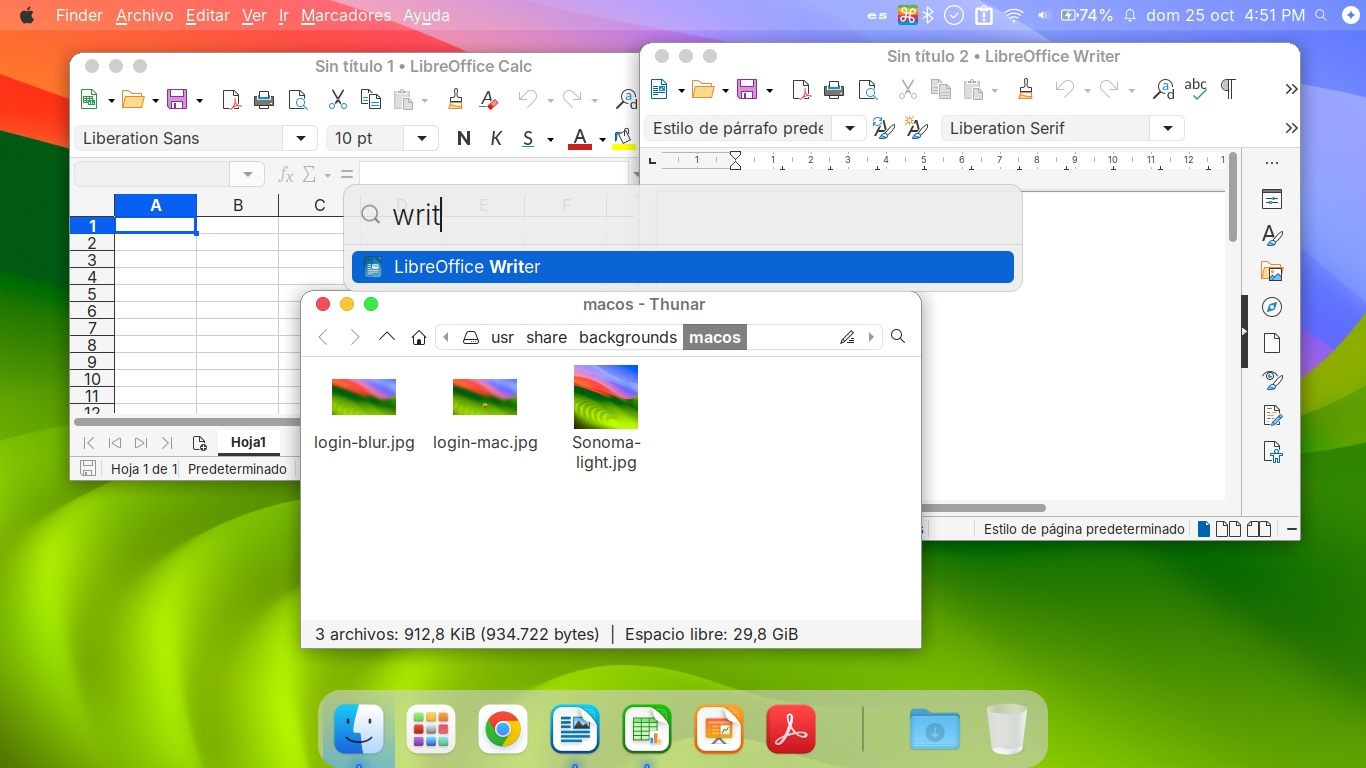
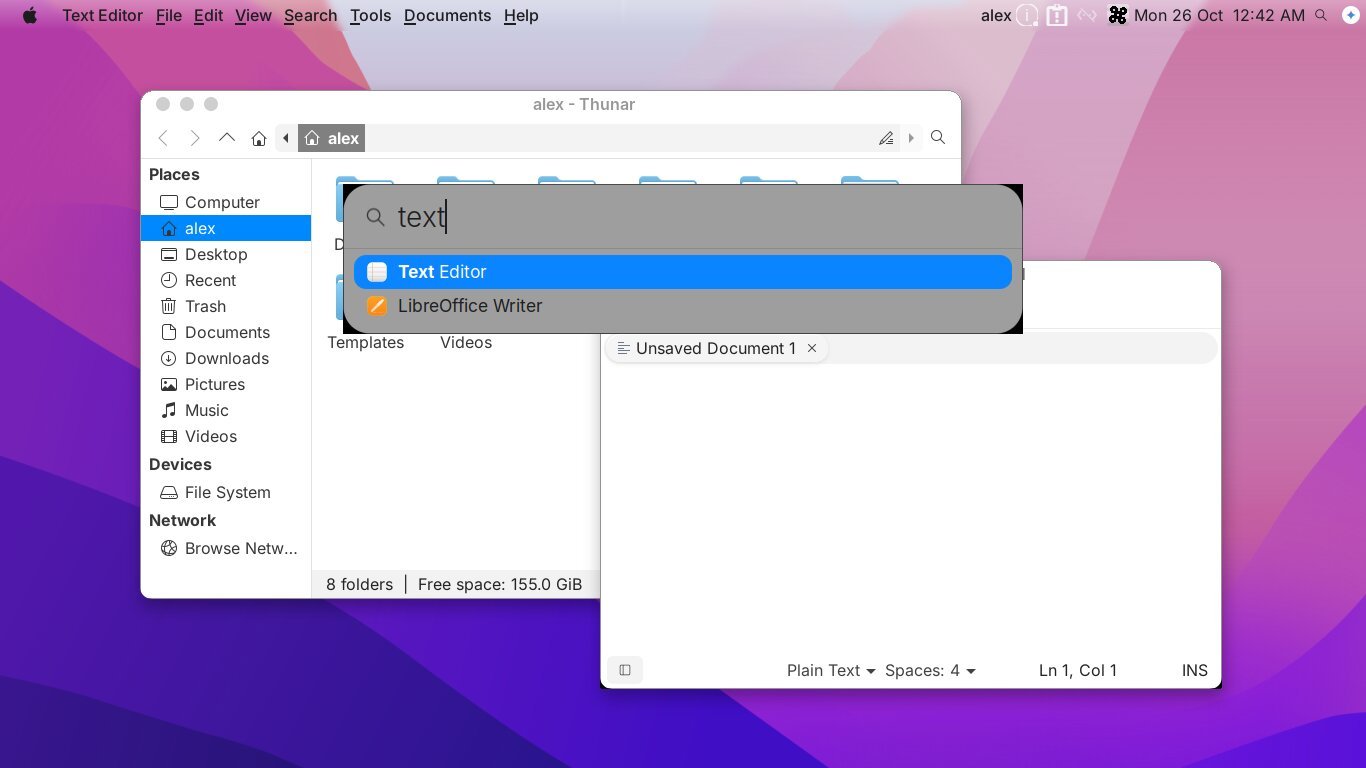
Appearance… in the Apple menu; Launchpad lists what Mint's menu lists; Mission Control skips hidden helpers for names; picom restarts after theme reloads; script 3 installs what it needs; new light/dark screenshots
Claude-Session: https://claude.ai/code/session_019K3tQw4seTmA9hFpBZSR8s

diff --git a/test/mintosh-test.py b/test/mintosh-test.py
@@ -189,8 +189,10 @@ def t_launchpad():
     sh("pkill -x xed")
 
     lp_open(); type_text("settings manager"); keys("Return"); time.sleep(2)
-    check("settings panels are not in Launchpad", not running("xfce4-settings-manager"))
-    sh("import -window root /tmp/launchpad-nomatch.png")   # should show no "Failed to execute" error
+    check("it lists what Mint's menu lists, settings too", running("xfce4-settings-manager"))
+    sh("pkill -x xfce4-settings-manager")
+    lp_open(); type_text("zzqx"); keys("Return"); time.sleep(1.5)
+    check("Return with no match runs nothing", "Failed" not in sh("wmctrl -l"))
     lp_open(); keys("Escape"); time.sleep(0.8)
     check("Esc closes it", not running("rofi.*drun"), sh("pgrep -a rofi | cut -c1-80"))
 

diff --git a/README.md b/README.md
@@ -15,17 +15,16 @@ make it look and work like macOS, so whoever used the Mac doesn't have to relear
 - Black boot screen with an Apple logo, a Sonoma-style login screen
 - Battery warnings, sleep on lid close, and the fixes 2013-2015 MacBooks need to run Linux reliably
 
-![Desktop: Apple menu, global menu with the app's own menus, dock, Finder](docs/screenshots/1-desktop.jpg)
-
-| | |
+| Light | Dark |
 |---|---|
-| ![Apple menu](docs/screenshots/2-apple-menu.jpg) **Apple menu** | ![Spotlight](docs/screenshots/3-spotlight.jpg) **Spotlight** (⌘Space) |
-| ![Launchpad](docs/screenshots/4-launchpad.jpg) **Launchpad** (F4, dock, pinch) | ![Mission Control](docs/screenshots/5-mission-control.jpg) **Mission Control** (three-finger swipe up, F3) |
-| ![Login screen](docs/screenshots/6-login.jpg) **Login screen** | |
+| ![Desktop in light mode: Apple menu, global menu, Finder, Text Editor, glass dock](docs/screenshots/1-desktop.jpg) | ![The same desktop in dark mode](docs/screenshots/1-desktop-dark.jpg) |
+| ![Mission Control with the Spaces bar](docs/screenshots/5-mission-control.jpg) **Mission Control** (three fingers up, F3, Ctrl+↑) | ![Mission Control in dark mode](docs/screenshots/5-mission-control-dark.jpg) |
+| ![Spotlight](docs/screenshots/3-spotlight.jpg) **Spotlight** (⌘Space) | ![Launchpad in dark mode](docs/screenshots/4-launchpad.jpg) **Launchpad** (F4, dock, pinch) |
+| ![Apple menu](docs/screenshots/2-apple-menu.jpg) **Apple menu** | ![Login screen](docs/screenshots/6-login.jpg) **Login screen** |
 
-<sub>Real screenshots from the 2013 MacBook Air at 1366x768. That machine was set up with Spanish as a second language,
-which is why the menus are in Spanish; by default everything is English.
-Finder's sidebar is hidden and the login screen shows a demo account.</sub>
+<sub>Screenshots at 1366x768 (MacBook Air 11"): the desktop, Mission Control, Spotlight and Launchpad from the
+OrbStack test machine; the Apple menu and login screen from the 2013 MacBook Air, set up with Spanish as a second
+language (by default everything is English) and showing a demo account.</sub>
 
 It all runs on a 4 GB, 2013 MacBook Air: the search and launcher windows only exist while open, so nothing extra
 sits in memory. The look comes from the excellent [MacTahoe](https://github.com/vinceliuice/MacTahoe-gtk-theme)
@@ -112,22 +111,24 @@ Keep a second copy of `organized/` + `converted/` before deleting the raw backup
   double-click to zoom, Plank dock on glass (Finder, Launchpad, apps | Downloads, Trash), rotating macOS-style
   wallpapers (a light set and a dark set), glass notifications top right, only files on the desktop, Thunar renamed
   Finder with Finder-like settings.
-- **Appearance:** `appearance light|dark|auto` (also in the app menu as "Appearance: Light/Dark/Auto") switches
+- **Appearance:** Apple menu > Appearance… (or `appearance light|dark|auto`, or "Appearance: Dark" in Spotlight) switches
   everything that has two looks: theme, icons, window borders, menu bar text and Apple logo, dock, Spotlight,
   Launchpad, Mission Control, notifications, wallpapers, and apps that follow the system colour scheme (Chrome,
   LibreOffice, GTK 4). Auto is light 7:00-19:00. `APPEARANCE=dark bash 3-macos-look.sh` picks it at install.
 - **Glass:** picom replaces xfwm's compositor and blurs what is behind translucent windows (dual-Kawase on a real
   GPU, a lighter blur without one), with rounded window corners and macOS-like shadows.
 - **Menu bar:** no bar of its own, as in macOS Tahoe: text and icons on the wallpaper with a faint shade. Apple menu (Xfce's Applications Menu on a custom `.menu` file: About This Computer, System
-  Settings, App Store, Force Quit, Sleep, Restart, Shut Down, Lock Screen, Log Out, with separators), then the
+  Settings, Appearance, App Store, Force Quit, Sleep, Restart, Shut Down, Lock Screen, Log Out, with separators), then the
   global menu (`xfce4-appmenu-plugin`: active app's name in bold + its File/Edit/View menus, out of the window;
   works for Chrome, LibreOffice and GTK apps). Right side as on macOS: keyboard layout, tray icons, Wi-Fi, volume,
   battery %, "Sun 25 Oct 3:42 PM", Search, Gemini. Regular-weight text. Mint's Firefox/Terminal/Files
   launchers, show-desktop, window buttons and Languages button are removed.
 - **Spotlight (⌘Space) and Launchpad (F4, dock):** rofi, not Ulauncher: it starts on demand and exits, so it uses no
   memory while closed (Ulauncher stays resident, ~100 MB+, too much for 4 GB). Spotlight: Sonoma-style bar, results
-  appear once you type, apps then the user's files. Launchpad: full-screen grid on the blurred wallpaper; one click opens.
-- **Keys:** Toshy gives ⌘C/⌘V/⌘Q/⌘W/⌘Tab; ⌘⇧3 / ⌘⇧4 save screenshots to the Desktop. Tapping ⌘ alone does nothing.
+  appear once you type, apps then the user's files. Launchpad: full-screen grid on the blurred wallpaper with the same
+  apps as Mint's menu; one click opens, a click outside closes. Both only start installed apps: Return with no match
+  does nothing (`bin/open-app`) instead of running the typed text.
+- **Keys:** Toshy gives ⌘C/⌘V/⌘Q/⌘W/⌘Tab; ⌘⇧3 / ⌘⇧4 save "Screenshot <date> at <time>.png" to the Desktop, no dialog. Tapping ⌘ alone does nothing.
 - **Boot and login:** black screen with a white Apple logo and progress bar (Plymouth script theme), GRUB menu hidden
   (Shift/Esc shows it); a Sonoma-style login screen (lightdm-gtk-greeter): big date and time at the top, a round
   account picture, the name and a translucent password field at the bottom of the blurred wallpaper. The picture
@@ -164,6 +165,11 @@ Script 4 writes `/etc/tlp.d/90-apple.conf` (`SATA_LINKPWR_ON_BAT=max_performance
 power saving off) on Apple hardware.
 
 `libata.force=noncq,1.5Gbps` is **not** needed - with the two options above the SSD runs at 6 Gb/s with NCQ.
+
+## Known issues
+- The global menu (`xfce4-appmenu-plugin` 0.7.6, Ubuntu 24.04's) sometimes crashes when a Chrome window moves to
+  another desktop. The panel restarts it on its own; if it crashes twice in a row the panel asks whether to restart
+  it - say yes.
 
 ## Lessons
 - Run scripts that change the desktop (panel, dock) inside the session, not over SSH: an SSH-started panel or
